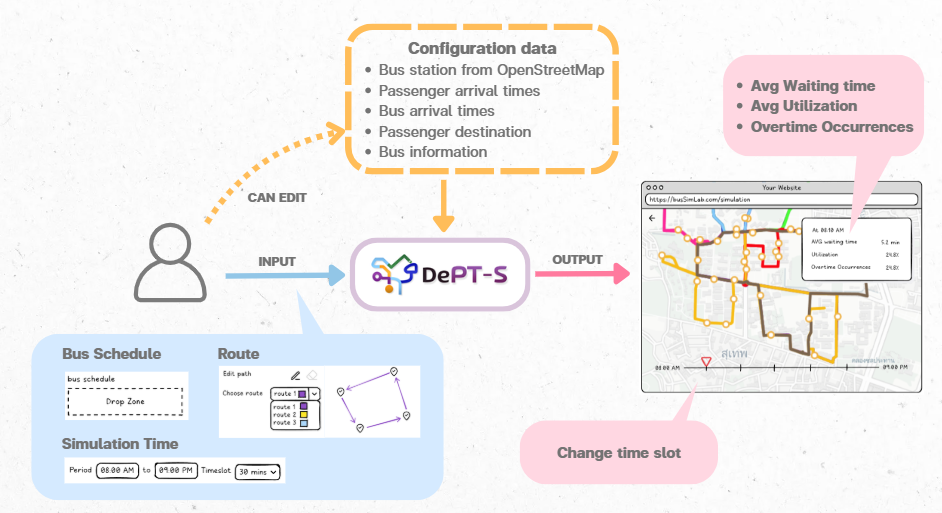
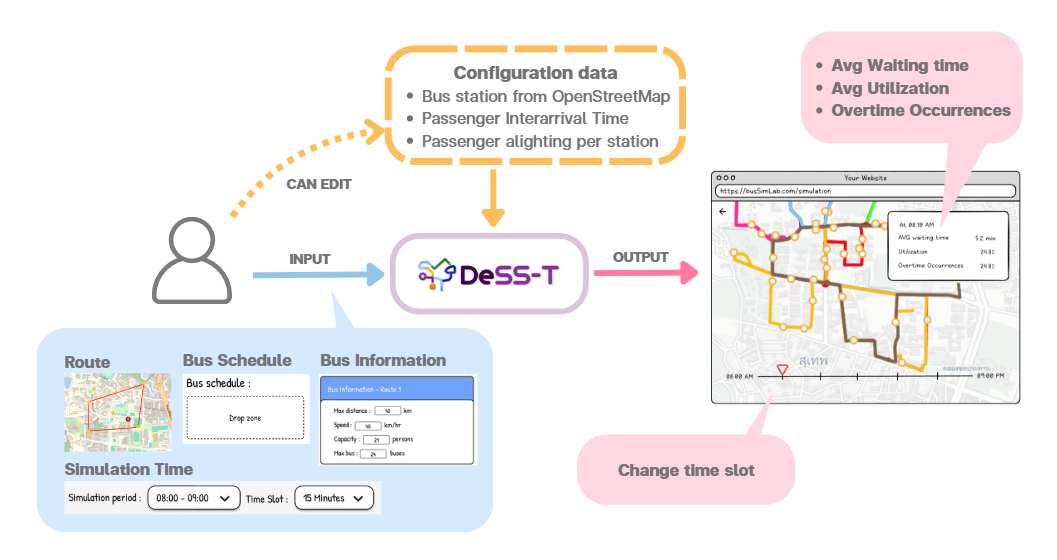
ch3 mind

Changed region(s): [[0.0308, 0.0312, 0.9851, 0.9981]]

diff --git a/chapters/approach.tex b/chapters/approach.tex
@@ -32,14 +32,14 @@
     \label{fig:overview}
 \end{figure}
 
-\subsection{Input}
+\subsection{Input data (Scenario data)}
 \begin{mypara}
   \indent เป็นข้อมูลที่ผู้ใช้สามารถปรับเปลี่ยนพารามิเตอร์ได้บ่อย ๆ เพื่อจำลองสถานการณ์ต่าง ๆ 
   สำหรับการเปรียบเทียบและวางแผน ประกอบด้วย เส้นทางการให้บริการของรถในแต่ละสายบริการ 
   ตารางเวลาการออกรถ ช่วงเวลาที่ต้องการดูผลการจําลอง ข้อมูลของรถซึ่งมี 
   ความจุผู้โดยสารระยะทางที่สามารถวิ่งได้สูงสุด ความเร็วในการวิ่ง
 \end{mypara}
-\subsection{Configuration Data}
+\subsection{Configuration data (Base data)}
 \begin{mypara}
   \indent เป็นส่วนของข้อมูลที่ใช้เป็นพื้นฐานในการจำลองซึ่งจะไม่ค่อยมีการเปลี่ยนแปลงบ่อย 
   ได้แก่ ข้อมูลช่วงระยะห่างของเวลาที่ผู้โดยสารแต่ละคนมาถึงที่สถานี ข้อมูลของจำนวนผู้โดยสารที่ลงจากรถในแต่ละสถานี 
@@ -72,7 +72,7 @@
 \section{User Interface (UI)}
 \begin{mypara}
     \indent โครงงานนี้มีการออกแบบเพื่อให้ผู้ใช้สามารถป้อนข้อมูลที่จำเป็นสำหรับ
-    ารจำลองระบบขนส่งสาธารณะได้อย่างสะดวกและไม่ซับซ้อน 
+    การจำลองระบบขนส่งสาธารณะได้อย่างสะดวกและไม่ซับซ้อน 
     โดยข้อมูลที่มีการเปลี่ยนแปลงบ่อย จะถูกจัดให้อยู่ในส่วนของ input 
     ซึ่งสามารถเข้าถึงและแก้ไขได้ง่ายโดยไม่ต้องผ่านขั้นตอนที่ซับซ้อน 
     ส่วนข้อมูลพื้นฐานของระบบขนส่งสาธารณะ จะถูกจัดเก็บแยกเป็น configuration data 
@@ -105,7 +105,7 @@
     \item ผู้ใช้ที่ไม่ได้ลงทะเบียน (Guest Users / Unregistered Users)
     \begin{figure}[H]
     \centering
-    \includegraphics[width=\textwidth,height=0.9\textheight,keepaspectratio]{User_flow_-_guest.png}
+    \includegraphics[width=\textwidth,height=0.6\textheight,keepaspectratio]{User_flow_-_guest.png}
     \caption{user flow  ของผู้ใช้ที่ไม่ได้ลงทะเบียน}
     \label{fig:UserFlowUnregistered}
     \end{figure}
@@ -122,81 +122,87 @@
 \end{itemize}
 \end{mypara}
 \newpage
-\section{wireframe}
+\section{Wireframe}
 \begin{mypara}
     \indent โครงงานนี้มีการออกแบบ wireframe สำหรับหน้าต่างๆ ของระบบ 
     เพื่อใช้เป็นแนวทางในการพัฒนาและทดสอบระบบ โดย wireframe ที่ออกแบบมีดังนี้
-\subsection{wireframe ผู้ใช้ที่ไม่ได้ลงทะเบียน (Guest Users / Unregistered Users)}
+
+\subsection{Wireframe ผู้ใช้ที่ไม่ได้ลงทะเบียน (Guest Users / Unregistered Users)}
 \begin{itemize}
     \item Step 1: ผู้ใช้เข้าหน้า Landing page เพื่อเลือกระหว่าง guest และ Login
-    \begin{figure}[H]
-    \centering
-    \includegraphics[scale=0.4]
-    {homepage.png}
-    \caption{wireframe ของหน้า Landing page}
-    \label{fig:WireframeHomepage}
-    \end{figure}
+      \begin{figure}[H]
+        \centering
+        \includegraphics[scale=0.4]
+        {homepage.png}
+        \caption{wireframe ของหน้า Landing page}
+        \label{fig:WireframeHomepage}
+      \end{figure}
+
     \item Step 2: Guest เลือกว่าจะใช้ข้อมูลที่อยู่ใน community หรือ Setup configuration เอง
-    \begin{figure}[H]
-    \centering
-    \includegraphics[scale=0.4]
-    {guest_login.png}
-    \caption{wireframe ของหน้า Guest decision}
-    \label{fig:WireframeGuestDecision}
-    \end{figure}
+      \begin{figure}[H]
+        \centering
+        \includegraphics[scale=0.4]
+        {guest_login.png}
+        \caption{wireframe ของหน้า Guest decision}
+        \label{fig:WireframeGuestDecision}
+      \end{figure}
+
     \item Step 3: การใช้ข้อมูล Configuration Data
     \begin{itemize}
-        \item ใช้จากข้อมูลที่อยู่ใน community
-        \begin{figure}[H]
-        \centering
-        \includegraphics[scale=0.4]{conf_commu_guest.png}
-        \caption{wireframe ของหน้า Community configuration data}
-        \label{fig:WireframeCommunityConfigGuest}
-        \end{figure}
+        \item เลือกใช้จากข้อมูลที่อยู่ใน community
+          \begin{figure}[H]
+            \centering
+            \includegraphics[scale=0.4]{conf_commu_guest.png}
+            \caption{wireframe ของหน้า Community configuration data}
+            \label{fig:WireframeCommunityConfigGuest}
+          \end{figure}
 
-        \begin{figure}[H]
-        \centering
-        \includegraphics[scale=0.4]{conf_commu_detail_guest.png}
-        \caption{wireframe ของหน้ารายละเอียด configuration data ใน community}
-        \label{fig:WireframeCommunityConfigDetailGuest}
-        \end{figure}
+          \begin{figure}[H]
+            \centering
+            \includegraphics[scale=0.4]{conf_commu_detail_guest.png}
+            \caption{wireframe ของหน้ารายละเอียด configuration data ใน community}
+            \label{fig:WireframeCommunityConfigDetailGuest}
+          \end{figure}
 
-        \item Setup configuration เอง
-        \begin{figure}[H]
-        \centering
-        \includegraphics[scale=0.4]{conf_setup_guest.png}
-        \caption{wireframe ของหน้า Setup configuration data สำหรับ guest}
-        \label{fig:WireframeSetupConfigGuest}
-        \end{figure}
+        \newpage
+        \item ผู้ใช้เลือก Setup configuration ด้วยตนเอง
+          \begin{figure}[H]
+            \centering
+            \includegraphics[scale=0.4]{conf_setup_guest.png}
+            \caption{wireframe ของหน้า Setup configuration data สำหรับ guest}
+            \label{fig:WireframeSetupConfigGuest}
+          \end{figure}
     \end{itemize}
+
     \item Step 4: หน้า input page เพื่อกรอกข้อมูล input ต่างๆ
-    \begin{figure}[H]
-    \centering
-    \includegraphics[scale=0.4]{input_bus.png}
-    \caption{wireframe ของหน้า input page (bus) }
-    \label{fig:WireframeInputGuest}
-    \end{figure}
-    \begin{figure}[H]
-    \centering
-    \includegraphics[scale=0.4]{input_route.png}
-    \caption{wireframe ของหน้า input page (route) }
-    \label{fig:WireframeInputRouteGuest}
-    \end{figure}
+      \begin{figure}[H]
+        \centering
+        \includegraphics[scale=0.4]{input_bus.png}
+        \caption{wireframe ของหน้า input page (bus) }
+        \label{fig:WireframeInputGuest}
+      \end{figure}
+      \begin{figure}[H]
+        \centering
+        \includegraphics[scale=0.4]{input_route.png}
+        \caption{wireframe ของหน้า input page (route) }
+        \label{fig:WireframeInputRouteGuest}
+      \end{figure}
+
     \item Step 5:หลัง Run simulation แล้ว user จะสามารถเลือกดู  Dashboard สรุปผลข้อมูล 
     หรือ Interacting Visualize
-    \begin{figure}[H]
-    \centering
-    \includegraphics[scale=0.4]{output_show.png}
-    \caption{wireframe ของหน้าแสดงผลลัพธ์หลังจาก run simulation}
-    \label{fig:WireframeOutputGuest}
-    \end{figure} 
+      \begin{figure}[H]
+        \centering
+        \includegraphics[scale=0.4]{output_show.png}
+        \caption{wireframe ของหน้าแสดงผลลัพธ์หลังจาก run simulation}
+        \label{fig:WireframeOutputGuest}
+      \end{figure} 
 
-    \begin{figure}[H]
-    \centering
-    \includegraphics[scale=0.4]{dashboard.png}
-    \caption{wireframe ของหน้า Dashboard }
-    \label{fig:WireframeDashboardGuest}
-    \end{figure}
+      \begin{figure}[H]
+        \centering
+        \includegraphics[scale=0.4]{dashboard.png}
+        \caption{wireframe ของหน้า Dashboard }
+        \label{fig:WireframeDashboardGuest}
+      \end{figure}
     
 \end{itemize} 
 
@@ -214,12 +220,20 @@
     \item Step 2: My work จัดการงานของผู้ใช้
     \begin{itemize}
       \item My work เลือกใช้งานหรือ publish งาน
-      \begin{figure}[H]
-      \centering
-      \includegraphics[scale=0.4]{my_work.png} 
-      \caption{wireframe ของหน้า My work}
-      \label{fig:WireframeMyWork}
-      \end{figure}
+        \begin{figure}[H]
+          \centering
+          \includegraphics[scale=0.4]{my_work.png} 
+          \caption{wireframe ของหน้า My work}
+          \label{fig:WireframeMyWork}
+        \end{figure}
+
+        \begin{figure}[H]
+          \centering
+          \includegraphics[scale=0.6]{my_work_publish.png} 
+          \caption{wireframe ของหน้า My work ในกรณีที่ publish งาน}
+          \label{fig:WireframeMyWorkPublish}
+        \end{figure}
+
       \item  New work ซึ่งสามารถสร้าง work จาก config ที่มีอยู่
       \begin{figure}[H]
       \centering

diff --git a/sampleReport.tex b/sampleReport.tex
@@ -3,6 +3,8 @@
 %% This is a sample document demonstrating how to use the CPECMU
 %% project template. If you are having trouble, see "cpecmu.pdf" for
 %% documentation.
+\usepackage{enumitem}
+\setlist[itemize,2]{label=\textcolor{black}{\large$\circ$}}
 
 \projectNo{S047-1}
 \acadyear{2025}
